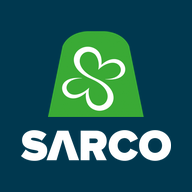
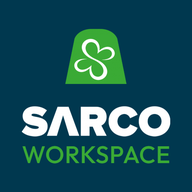
Chat come WhatsApp con la barra Sarco Workspace in alto e tastiera iPhone; nuova icona dell'app
- dentro la chat: barra Sarco Workspace, barra del gruppo, messaggi che scorrono, barra per scrivere semplice
- con la tastiera aperta la chat si restringe sopra la tastiera (visualViewport)
- icona: campana più piccola e staccata, SARCO, WORKSPACE verde larga quanto SARCO

Changed region(s): [[0.0938, 0.125, 0.9062, 0.875]]

diff --git a/turni/static/turni/app.js b/turni/static/turni/app.js
@@ -129,18 +129,36 @@ async function iscrivi(riquadro) {
   if (!document.querySelector('.wa')) return;
   // come WhatsApp: si parte dagli ultimi messaggi; dopo un voto si torna al sondaggio (#m…), sotto il titolo della chat
   const bersaglio = /^#m\d+$/.test(location.hash) ? document.querySelector(location.hash) : null;
-  const fondo = () => bersaglio ? bersaglio.scrollIntoView({ block: 'center' }) : window.scrollTo(0, document.documentElement.scrollHeight);
+  // a tutto schermo (Giulia, 23/11/2026) scorrono solo i messaggi, dentro il loro riquadro
+  const sfondo = document.querySelector('.wa-sfondo');
+  const dentro = document.body.classList.contains('in-chat') && sfondo;
+  const fondo = () => bersaglio ? bersaglio.scrollIntoView({ block: 'center' })
+    : dentro ? (sfondo.scrollTop = sfondo.scrollHeight) : window.scrollTo(0, document.documentElement.scrollHeight);
   fondo();
   window.addEventListener('load', fondo);
-  // le foto e i video si caricano dopo e allungano la pagina: finché non si tocca lo schermo la chat resta agganciata
+  // le foto e i video si caricano dopo e allungano la chat: finché non si tocca lo schermo la chat resta agganciata
   // all'ultimo messaggio (bug 22/11: si apriva a metà)
-  const sfondo = document.querySelector('.wa-sfondo');
-  if (sfondo && window.ResizeObserver) {
+  if (sfondo) {
     let agganciata = true;
     const stacca = () => { agganciata = false; };
     ['touchstart', 'wheel', 'keydown', 'mousedown'].forEach(ev => window.addEventListener(ev, stacca, { once: true, passive: true }));
     setTimeout(stacca, 6000);
-    new ResizeObserver(() => { if (agganciata) fondo(); }).observe(sfondo);
+    ['load', 'loadedmetadata'].forEach(ev => sfondo.addEventListener(ev, () => { if (agganciata) fondo(); }, true));
+    if (window.ResizeObserver) new ResizeObserver(() => { if (agganciata) fondo(); }).observe(sfondo);
+  }
+  // la tastiera dell'iPhone: la chat si restringe sopra la tastiera e resta sull'ultimo messaggio, come WhatsApp
+  if (dentro && window.visualViewport) {
+    const vv = window.visualViewport, radice = document.documentElement.style;
+    const adatta = () => {
+      const inFondo = sfondo.scrollTop + sfondo.clientHeight >= sfondo.scrollHeight - 60;
+      radice.setProperty('--vv-h', vv.height + 'px');
+      radice.setProperty('--vv-top', vv.offsetTop + 'px');
+      document.body.classList.toggle('tastiera', window.innerHeight - vv.height > 120);
+      if (inFondo) sfondo.scrollTop = sfondo.scrollHeight;
+    };
+    vv.addEventListener('resize', adatta);
+    vv.addEventListener('scroll', adatta);
+    adatta();
   }
   // bacheca: tocco sul fumetto (per l'ufficio) compare "Elimina"
   document.querySelector('.wa').addEventListener('click', e => {
@@ -155,7 +173,8 @@ async function iscrivi(riquadro) {
   if (!chat) return;
   const modulo = document.querySelector('.wa-scrivi');
   const csrf = modulo ? modulo.querySelector('[name=csrfmiddlewaretoken]').value : '';
-  const fondo = () => window.scrollTo(0, document.documentElement.scrollHeight);
+  const dentro = document.body.classList.contains('in-chat');
+  const fondo = () => dentro ? (chat.scrollTop = chat.scrollHeight) : window.scrollTo(0, document.documentElement.scrollHeight);
   const spunte = letto => ' <svg class="wa-spunte' + (letto ? ' lette' : '') + '" viewBox="0 0 18 12" role="img" aria-label="Inviato"><path d="M1 6l3.5 3.5L11 3M7 9.5L8 10.5 15 3"/></svg>';
   const el = (tag, classe, testo) => { const e = document.createElement(tag); if (classe) e.className = classe; if (testo != null) e.textContent = testo; return e; };
 
@@ -267,7 +286,8 @@ async function iscrivi(riquadro) {
       if (!messaggi.length) return;
       const vuota = document.getElementById('chat-vuota');
       if (vuota) vuota.remove();
-      const inFondo = window.innerHeight + window.scrollY >= document.body.scrollHeight - 150;
+      const inFondo = dentro ? chat.scrollTop + chat.clientHeight >= chat.scrollHeight - 150
+        : window.innerHeight + window.scrollY >= document.body.scrollHeight - 150;
       messaggi.forEach(aggiungi);
       chat.dataset.ultimo = messaggi[messaggi.length - 1].id;
       if (inFondo) fondo();

diff --git a/turni/static/turni/app.css b/turni/static/turni/app.css
@@ -2868,3 +2868,35 @@ body.foglio-aperto { overflow: hidden; }
   .wa-emoji button.mia { background: #11624f; }
   .wa-azione { background: #2a3942; border-color: #3b4a54; color: #e9edef; }
 }
+
+/* ---------------------------------------------------------------- Chat come WhatsApp (Giulia, 23/11/2026)
+   dentro una chat: in alto la barra Sarco Workspace (resta sempre, Giulia 23/11) e sotto la barra con il nome del gruppo,
+   in fondo solo la barra per scrivere; in mezzo scorrono i messaggi. Quando si apre la tastiera dell'iPhone tutto si
+   restringe sopra la tastiera (altezza dal visualViewport). */
+body.in-chat #attiva-notifiche, body.in-chat #notifiche-iphone { display: none !important; }
+body.in-chat .ig-barra { position: fixed; left: 0; right: 0; top: var(--vv-top, 0px); }
+body.in-chat .pagina { padding: 0; max-width: none; }
+body.in-chat { overflow: hidden; overscroll-behavior: none; }
+body.in-chat .wa { position: fixed; left: 0; right: 0; top: calc(var(--vv-top, 0px) + var(--alto-barra, 64px));
+  height: calc(var(--vv-h, 100dvh) - var(--alto-barra, 64px)); min-height: 0;
+  max-width: 640px; margin: 0 auto; display: flex; flex-direction: column; background: #efeae2; z-index: 5; }
+body.in-chat .wa-testa { position: relative; top: auto; flex: none; border-top: 0; padding: 6px 10px 6px 6px; }
+body.in-chat .wa-sfondo { flex: 1; min-height: 0; overflow-y: auto; -webkit-overflow-scrolling: touch; overscroll-behavior: contain; padding: 10px 12px 12px; }
+body.in-chat .wa-scrivi, body.in-chat .wa-solo-admin { position: relative; bottom: auto; flex: none; padding-bottom: calc(8px + env(safe-area-inset-bottom)); }
+/* con la tastiera aperta il margine dello «scalino» dell'iPhone non serve: la barra sta attaccata alla tastiera */
+body.in-chat.tastiera .wa-scrivi, body.in-chat.tastiera .wa-solo-admin { padding-bottom: 8px; }
+/* barra per scrivere semplice: + e fotocamera senza cerchio, come WhatsApp */
+body.in-chat .wa-scrivi { background: var(--carta); border-top: 1px solid var(--bordo); align-items: center; padding-top: 7px; }
+body.in-chat .wa-piu summary { background: transparent; box-shadow: none; width: 40px; }
+body.in-chat .wa-piu summary svg { width: 26px; height: 26px; }
+body.in-chat .wa-campo { box-shadow: none; border: 1px solid var(--bordo); background: #ffffff; }
+body.in-chat .wa-scrivi textarea { min-height: 40px; padding: 9px 14px; }
+body.in-chat .wa-scrivi .wa-campo .wa-camera { height: 40px; }
+body.in-chat .wa-invia { width: 42px; height: 42px; }
+/* gli avvisi (es. «video troppo grande») sotto la barra del gruppo */
+body.in-chat .avviso { position: fixed; z-index: 30; left: 12px; right: 12px; top: calc(var(--alto-barra, 64px) + 64px); max-width: 616px; margin: 0 auto;
+  box-shadow: 0 6px 20px rgba(0, 0, 0, .15); }
+@media (prefers-color-scheme: dark) {
+  body.in-chat .wa { background: #0b141a; }
+  body.in-chat .wa-campo { background: #2a3942; border-color: #2a3942; }
+}
